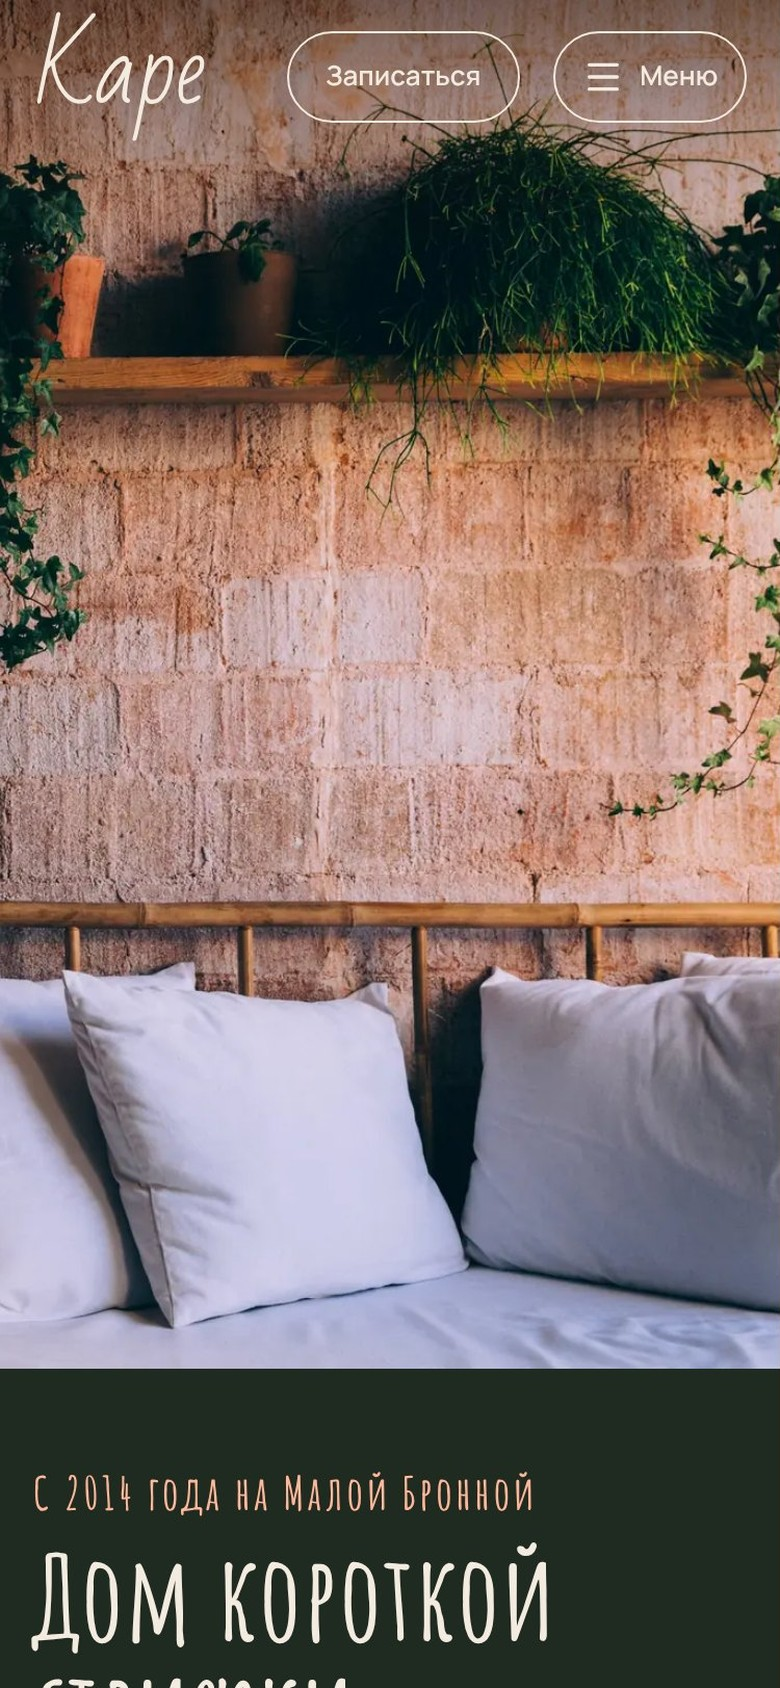
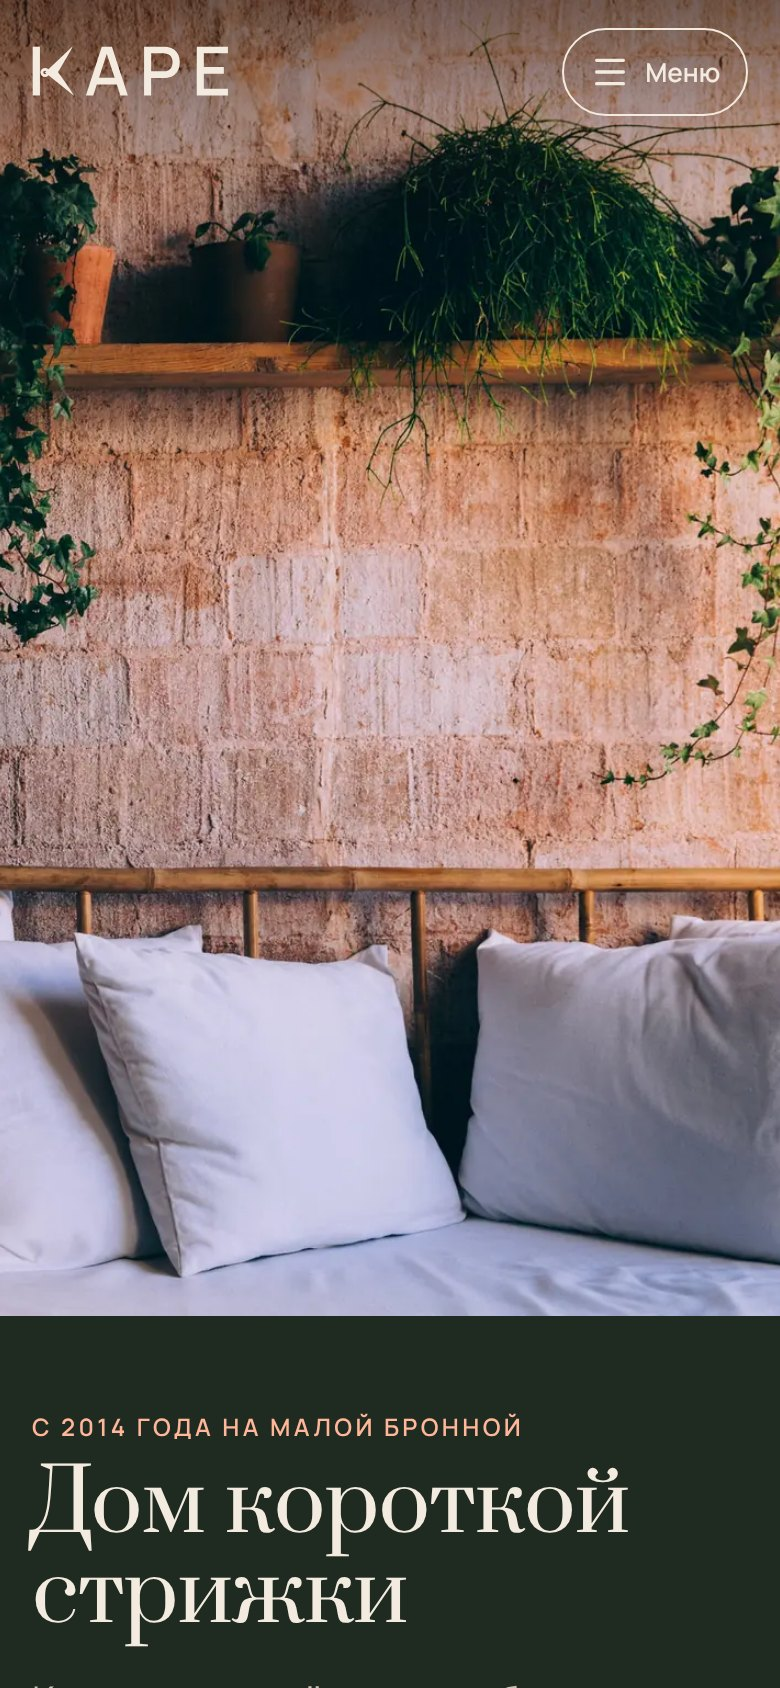
Каре: новые скриншоты (логотип с ножницами, шрифт Prata) и текст кейса под них
Claude-Session: https://claude.ai/code/session_01EqjaGEMsxfvaRW2MYHcQtJ

diff --git a/content/cases/kare/index.md b/content/cases/kare/index.md
@@ -26,4 +26,4 @@ phone:
 
 ## Решение
 
-Сайт как сам салон: первым экраном зал с кирпичной стеной, в котором загорается лампа, рукописные заголовки, штукатурка, терракота и зелёный бархат. Не одна длинная страница, а разделы: услуги с ценами по уровням мастеров, страница каждого мастера с его работами, лукбук с кнопкой «Хочу так же», журнал салона, контакты с тем, как пройти со двора. Запись в три шага, а услуга и мастер подставляются сами из той страницы, откуда человек пришёл. Всё, что повторяется, лежит в одном месте, поэтому цены и мастеров владелец меняет без вёрстки.
+Сайт как сам салон: первым экраном зал с кирпичной стеной, в котором загорается лампа, заголовки классической антиквой, логотип с буквой «К» из ножниц, штукатурка, терракота и зелёный бархат. Не одна длинная страница, а разделы: услуги с ценами по уровням мастеров, страница каждого мастера с его работами, лукбук с кнопкой «Хочу так же», журнал салона, контакты с тем, как пройти со двора. Запись в три шага, а услуга и мастер подставляются сами из той страницы, откуда человек пришёл. Всё, что повторяется, лежит в одном месте, поэтому цены и мастеров владелец меняет без вёрстки.

diff --git a/content/cases/kare/index.en.md b/content/cases/kare/index.en.md
@@ -13,4 +13,4 @@ A salon for short cuts and colour on Malaya Bronnaya Street. It needed to look m
 
 ## Solution
 
-The site feels like the salon itself: the first screen is the room with a brick wall where a lamp lights up, handwritten headings, plaster, terracotta and green velvet. Not one long page but sections: services priced by stylist level, a page for each stylist with their work, a lookbook with an “I want this” button, the salon journal, and contacts that explain how to find the entrance from the courtyard. Booking takes three steps, and the service and stylist are filled in from the page the visitor came from. Everything that repeats lives in one place, so the owner changes prices and stylists without touching the layout.
+The site feels like the salon itself: the first screen is the room with a brick wall where a lamp lights up, classic serif headings, a logo whose “K” is made of scissors, plaster, terracotta and green velvet. Not one long page but sections: services priced by stylist level, a page for each stylist with their work, a lookbook with an “I want this” button, the salon journal, and contacts that explain how to find the entrance from the courtyard. Booking takes three steps, and the service and stylist are filled in from the page the visitor came from. Everything that repeats lives in one place, so the owner changes prices and stylists without touching the layout.
